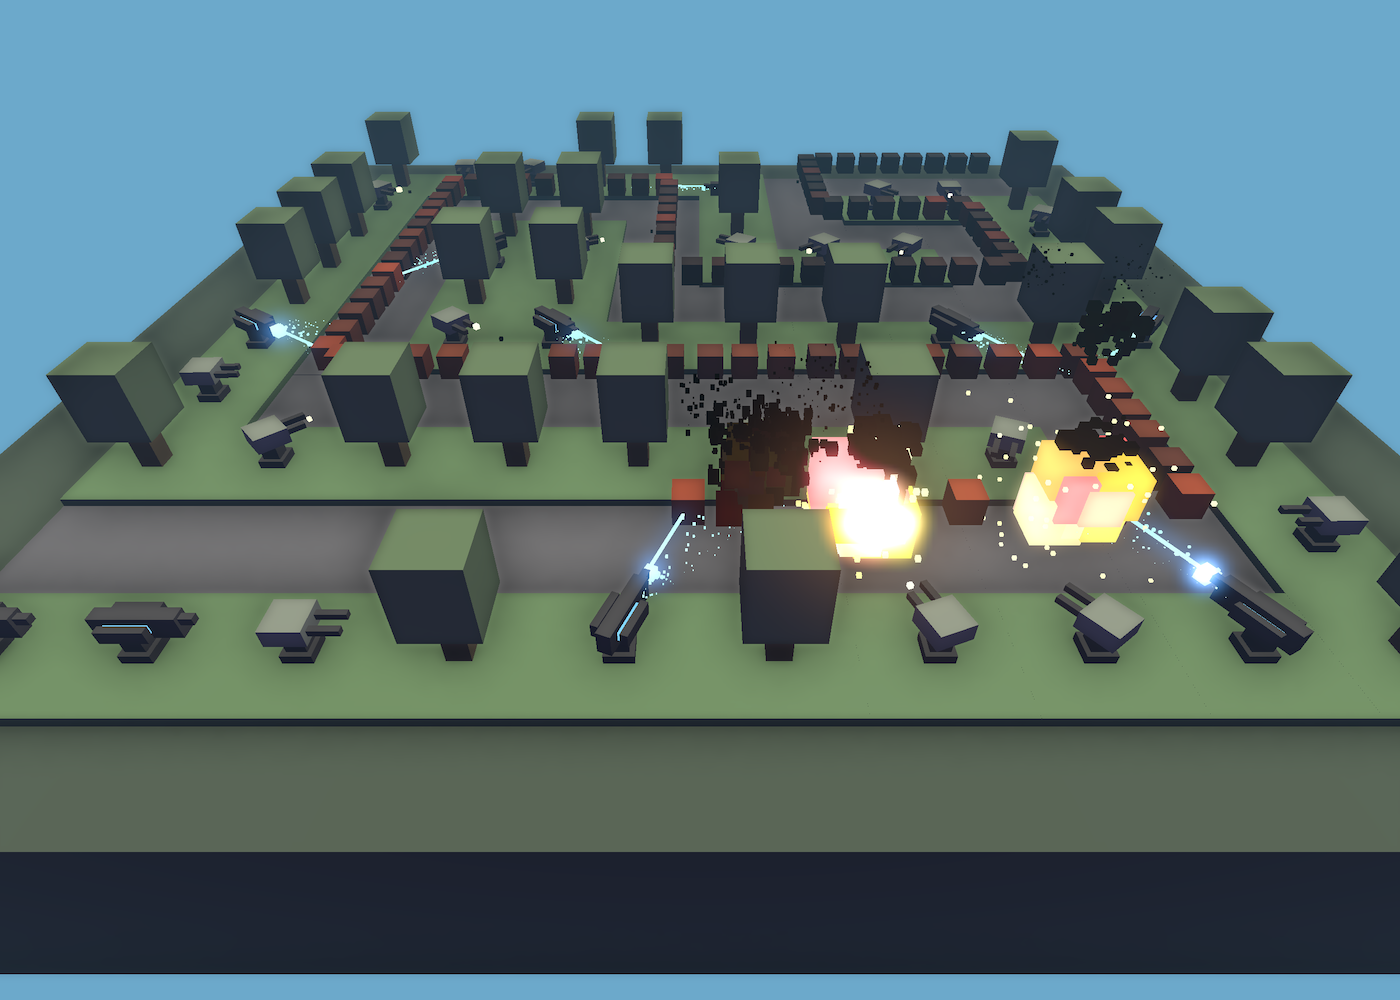
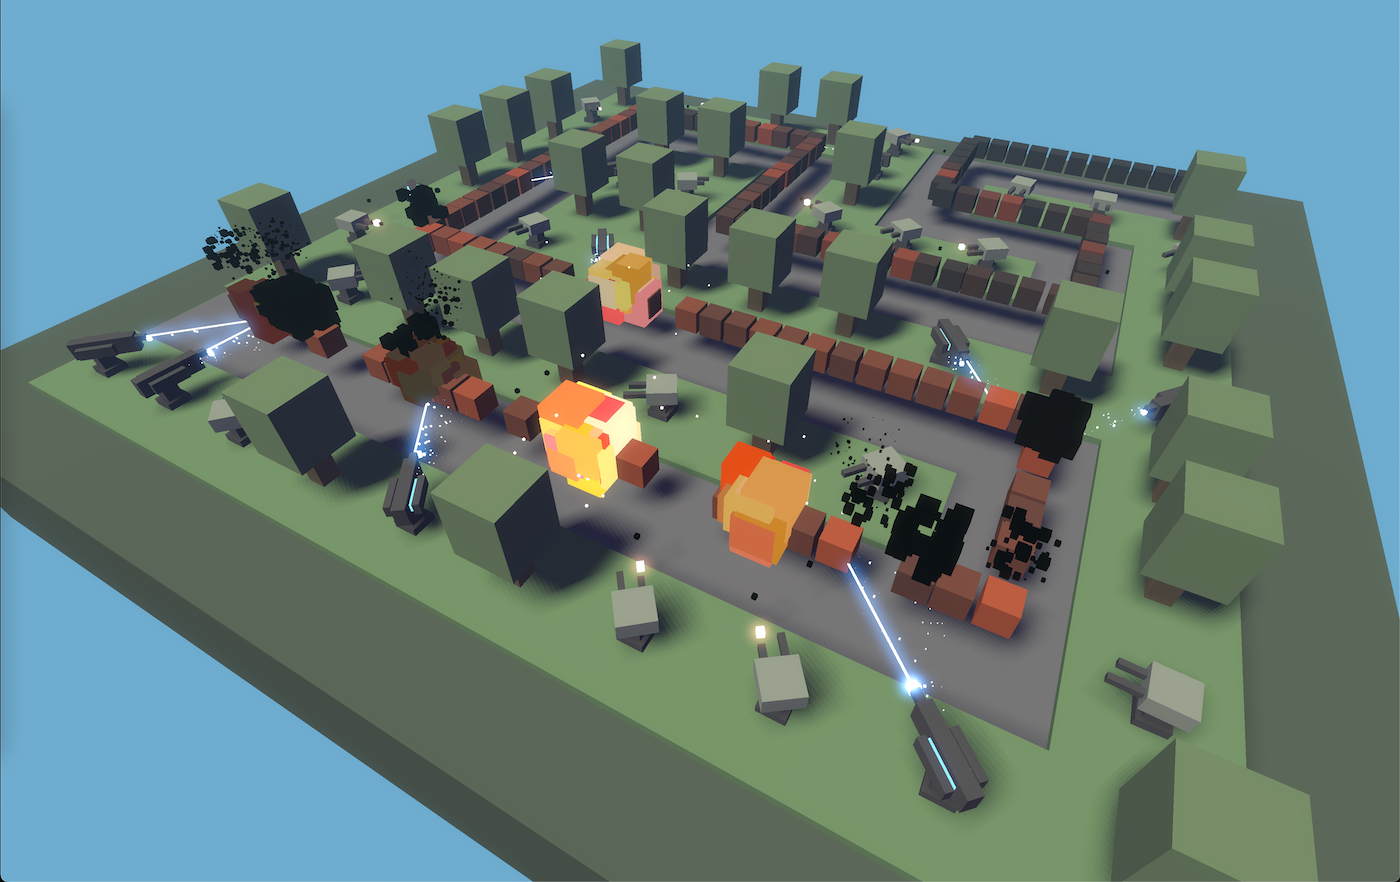
Update screenshots in README

diff --git a/README.md b/README.md
@@ -41,7 +41,7 @@ For more information, check the [ECS FAQ](https://github.com/SanderMertens/ecs-f
 ## Try it out!
 The [Flecs playground](https://www.flecs.dev/explorer/?local=true&wasm=https://www.flecs.dev/explorer/playground.js) lets you try Flecs without writing any C/C++ code!
 
-[![Flecs playground](docs/img/script_tutorial/tut_playground.png)](https://www.flecs.dev/explorer/?local=true&wasm=https://www.flecs.dev/explorer/playground.js)
+[![Flecs playground](docs/img/playground.png)](https://www.flecs.dev/explorer/?local=true&wasm=https://www.flecs.dev/explorer/playground.js)
 
 To learn how to use the playground, check the [Flecs Script Tutorial](https://www.flecs.dev/flecs/md_docs_FlecsScriptTutorial.html).
 
